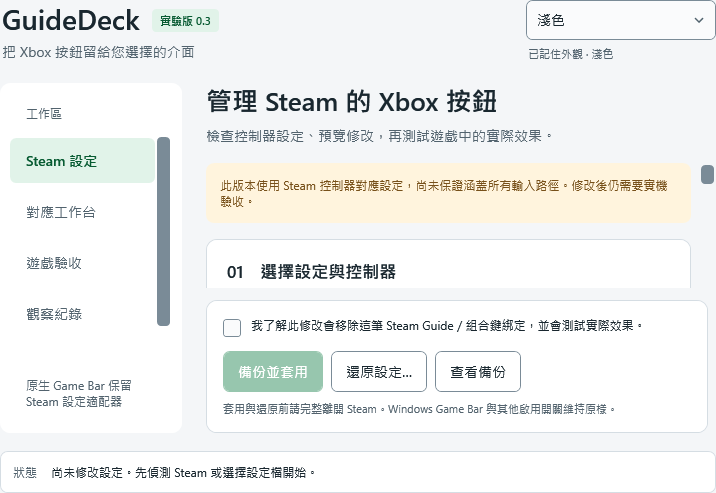
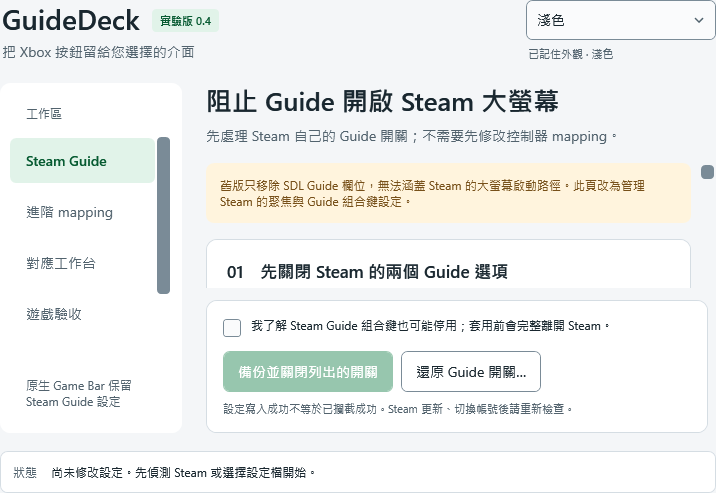
Record verified v0.4 Windows build and actual Guide settings previews [skip ci]

diff --git a/README.md b/README.md
@@ -35,7 +35,7 @@ Valve 的 [2025-09-09 更新](https://steamcommunity.com/games/593110/announceme
 
 **實際介面預覽**
 
-以下是 0.3 已驗證的主題預覽；0.4 首頁已改為 Steam Guide 設定流程，最新圖片見 CI 的 GuideDeck-ui-previews artifact。
+以下圖片來自 0.4 已通過驗證的 Windows WPF 程式渲染，並非概念稿。
 
 | 淺色 | 深色 |
 | --- | --- |
@@ -70,7 +70,7 @@ dotnet run --project tests/GuideDeck.Tests -c Release
 
 GitHub Actions 分別執行核心測試與 Windows 桌面／UWP 建置。成功建置不代表手把行為或反作弊相容性已驗證；請閱讀 [VALIDATION.txt](VALIDATION.txt)。
 
-0.3 的 [Windows CI 驗證](https://github.com/shenlee377/xbox-buttom-changer/actions/runs/41070851997)已通過：60 項核心測試、深淺色對比、實際 UI 渲染、系統主題即時切換、手動外觀覆寫，以及桌面／UWP 建置、啟動與安裝流程。
+0.4 的 [Windows CI 驗證](https://github.com/shenlee377/xbox-buttom-changer/actions/runs/41074987802)已通過：84 項核心測試、深淺色對比、實際 UI 渲染、系統主題即時切換，以及桌面／UWP 建置、啟動與安裝流程。實際 Steam／手把行為仍待驗收。
 
 後續發版可在 Actions 選 **Publish verified release**，填入成功的主分支建置 run ID 和新版本 tag。流程會取用該次已測試的產物、驗證校驗、上傳 EXE／ZIP／腳本並發布 prerelease；拒絕覆蓋已發布版本，不需在本機重新打包。
 
